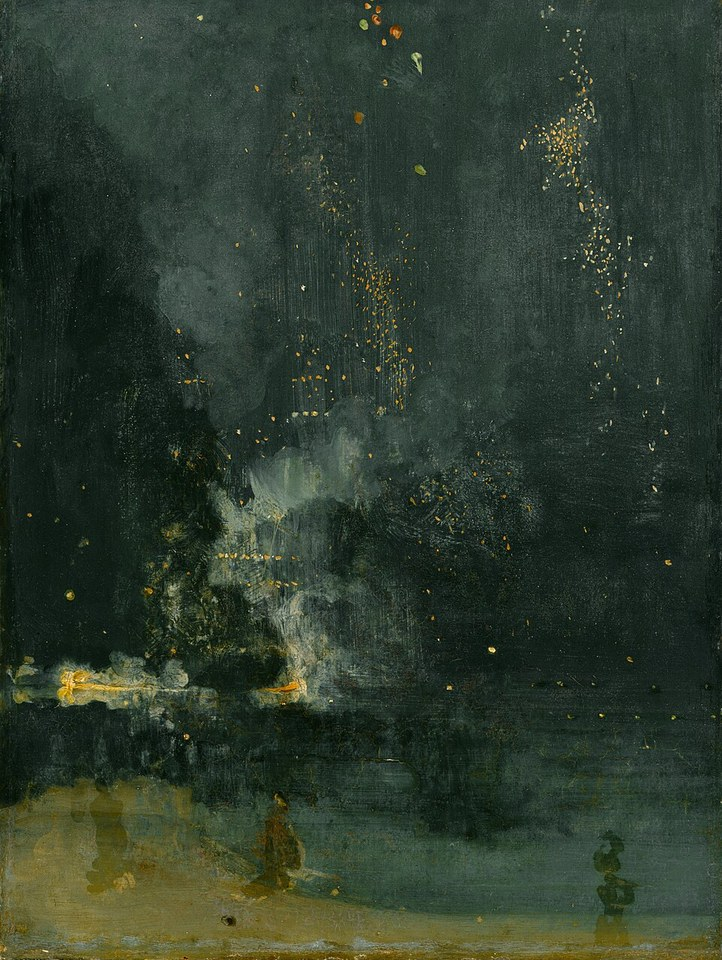
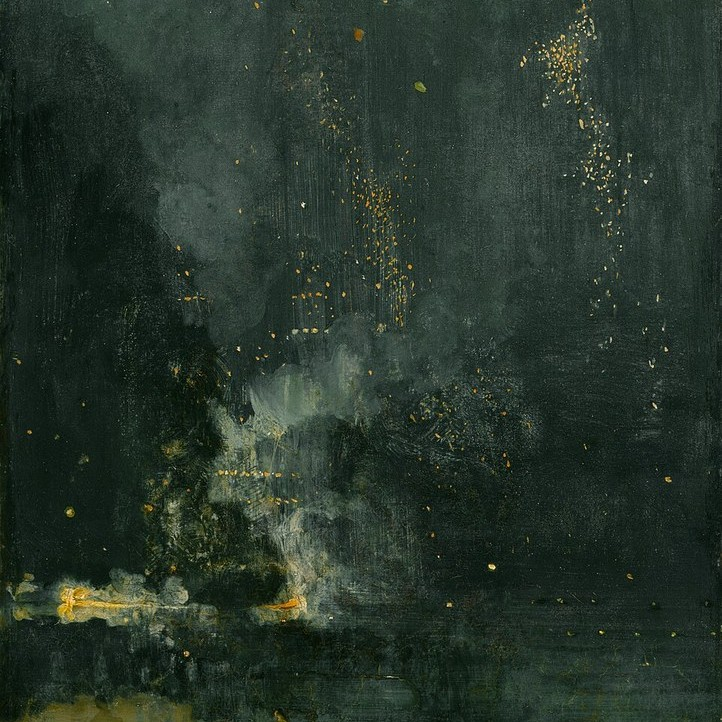
Keep Whistler portrait heads in the square crops.
The tall canvases were centre-weighted, so faces were cut off in the catalogue. Recrop only those six files from the top, with no letterboxing.

diff --git a/js/game.js b/js/game.js
@@ -4,8 +4,8 @@ import {
   paintingsByArtist,
   paintingById,
 } from "./paintings.js";
-import { loadAndPixelate } from "./pixelate.js";
-import { Sfx, AMBIENCES } from "./audio.js?v=cozy5";
+import { loadAndPixelate } from "./pixelate.js?v=crop4";
+import { Sfx, AMBIENCES } from "./audio.js?v=cozy6";
 
 const sfx = new Sfx();
 
@@ -239,7 +239,7 @@ function renderGallery() {
       wrapping.classList.add("has-art");
       btn.classList.add("has-art");
       const art = btn.querySelector(".hung-art");
-      art.src = painting._thumb || `assets/original/${painting.id}.jpg?v=crop3`;
+      art.src = painting._thumb || `assets/original/${painting.id}.jpg?v=crop4`;
       loadAndPixelate(painting)
         .then((pix) => {
           painting._thumb = pix.dataUrl;
@@ -344,7 +344,7 @@ function renderBook() {
       "catalog-card work-card" +
       (state.completed.has(painting.id) ? " hung" : "") +
       (onWall ? " on-wall" : "");
-    const src = painting._thumb || `assets/original/${painting.id}.jpg?v=crop3`;
+    const src = painting._thumb || `assets/original/${painting.id}.jpg?v=crop4`;
     btn.innerHTML = `
       <img src="${src}" alt="" />
       <strong>${painting.title}</strong>
@@ -382,7 +382,7 @@ async function openModeSelect(painting, slot = null) {
   els.modeTitle.textContent = painting.title;
   els.modeArtist.textContent = `${painting.artist}, ${painting.year}`;
   els.modePreview.alt = painting.title;
-  els.modePreview.src = painting._thumb || `assets/original/${painting.id}.jpg?v=crop3`;
+  els.modePreview.src = painting._thumb || `assets/original/${painting.id}.jpg?v=crop4`;
   els.modeModal.hidden = false;
   try {
     const art = await loadAndPixelate(painting);

diff --git a/js/pixelate.js b/js/pixelate.js
@@ -153,7 +153,7 @@ export function slicePieces(large, grid = GRID) {
 }
 
 function remoteUrls(painting) {
-  const urls = [`assets/original/${painting.id}.jpg?v=crop3`];
+  const urls = [`assets/original/${painting.id}.jpg?v=crop4`];
   if (painting.uuid) {
     urls.push(
       `https://api.nga.gov/iiif/${painting.uuid}/full/!800,800/0/default.jpg`

diff --git a/index.html b/index.html
@@ -194,6 +194,6 @@
       </label>
     </div>
 
-    <script type="module" src="js/game.js?v=cozy5"></script>
+    <script type="module" src="js/game.js?v=cozy6"></script>
   </body>
 </html>
